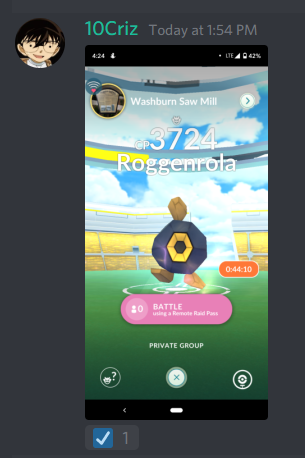
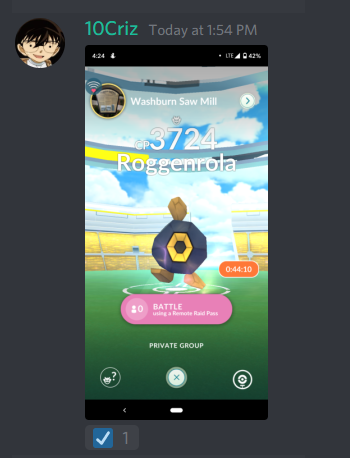
image update

diff --git a/index.html b/index.html
@@ -216,7 +216,7 @@
 										<div class="divider-custom-line"></div>
                                     </div>
                                     <!-- Portfolio Modal - Image-->
-                                    <img class="img-fluid rounded mb-5" src="assets/raid_lg.png" alt="" />
+                                    <img class="img-fluid rounded mb-5" src="assets/raid_sm.png" alt="" />
                                     <!-- Portfolio Modal - Text-->
                                     <p class="mb-5">Trainers can join raids with just one click of the raid pass, and Nexus will instruct Trainers on what to do next. Communication with the raid Host will be handled in dedicated a channel and messages will work across servers automatically!</p>
                                     <button class="btn btn-primary" data-dismiss="modal">
